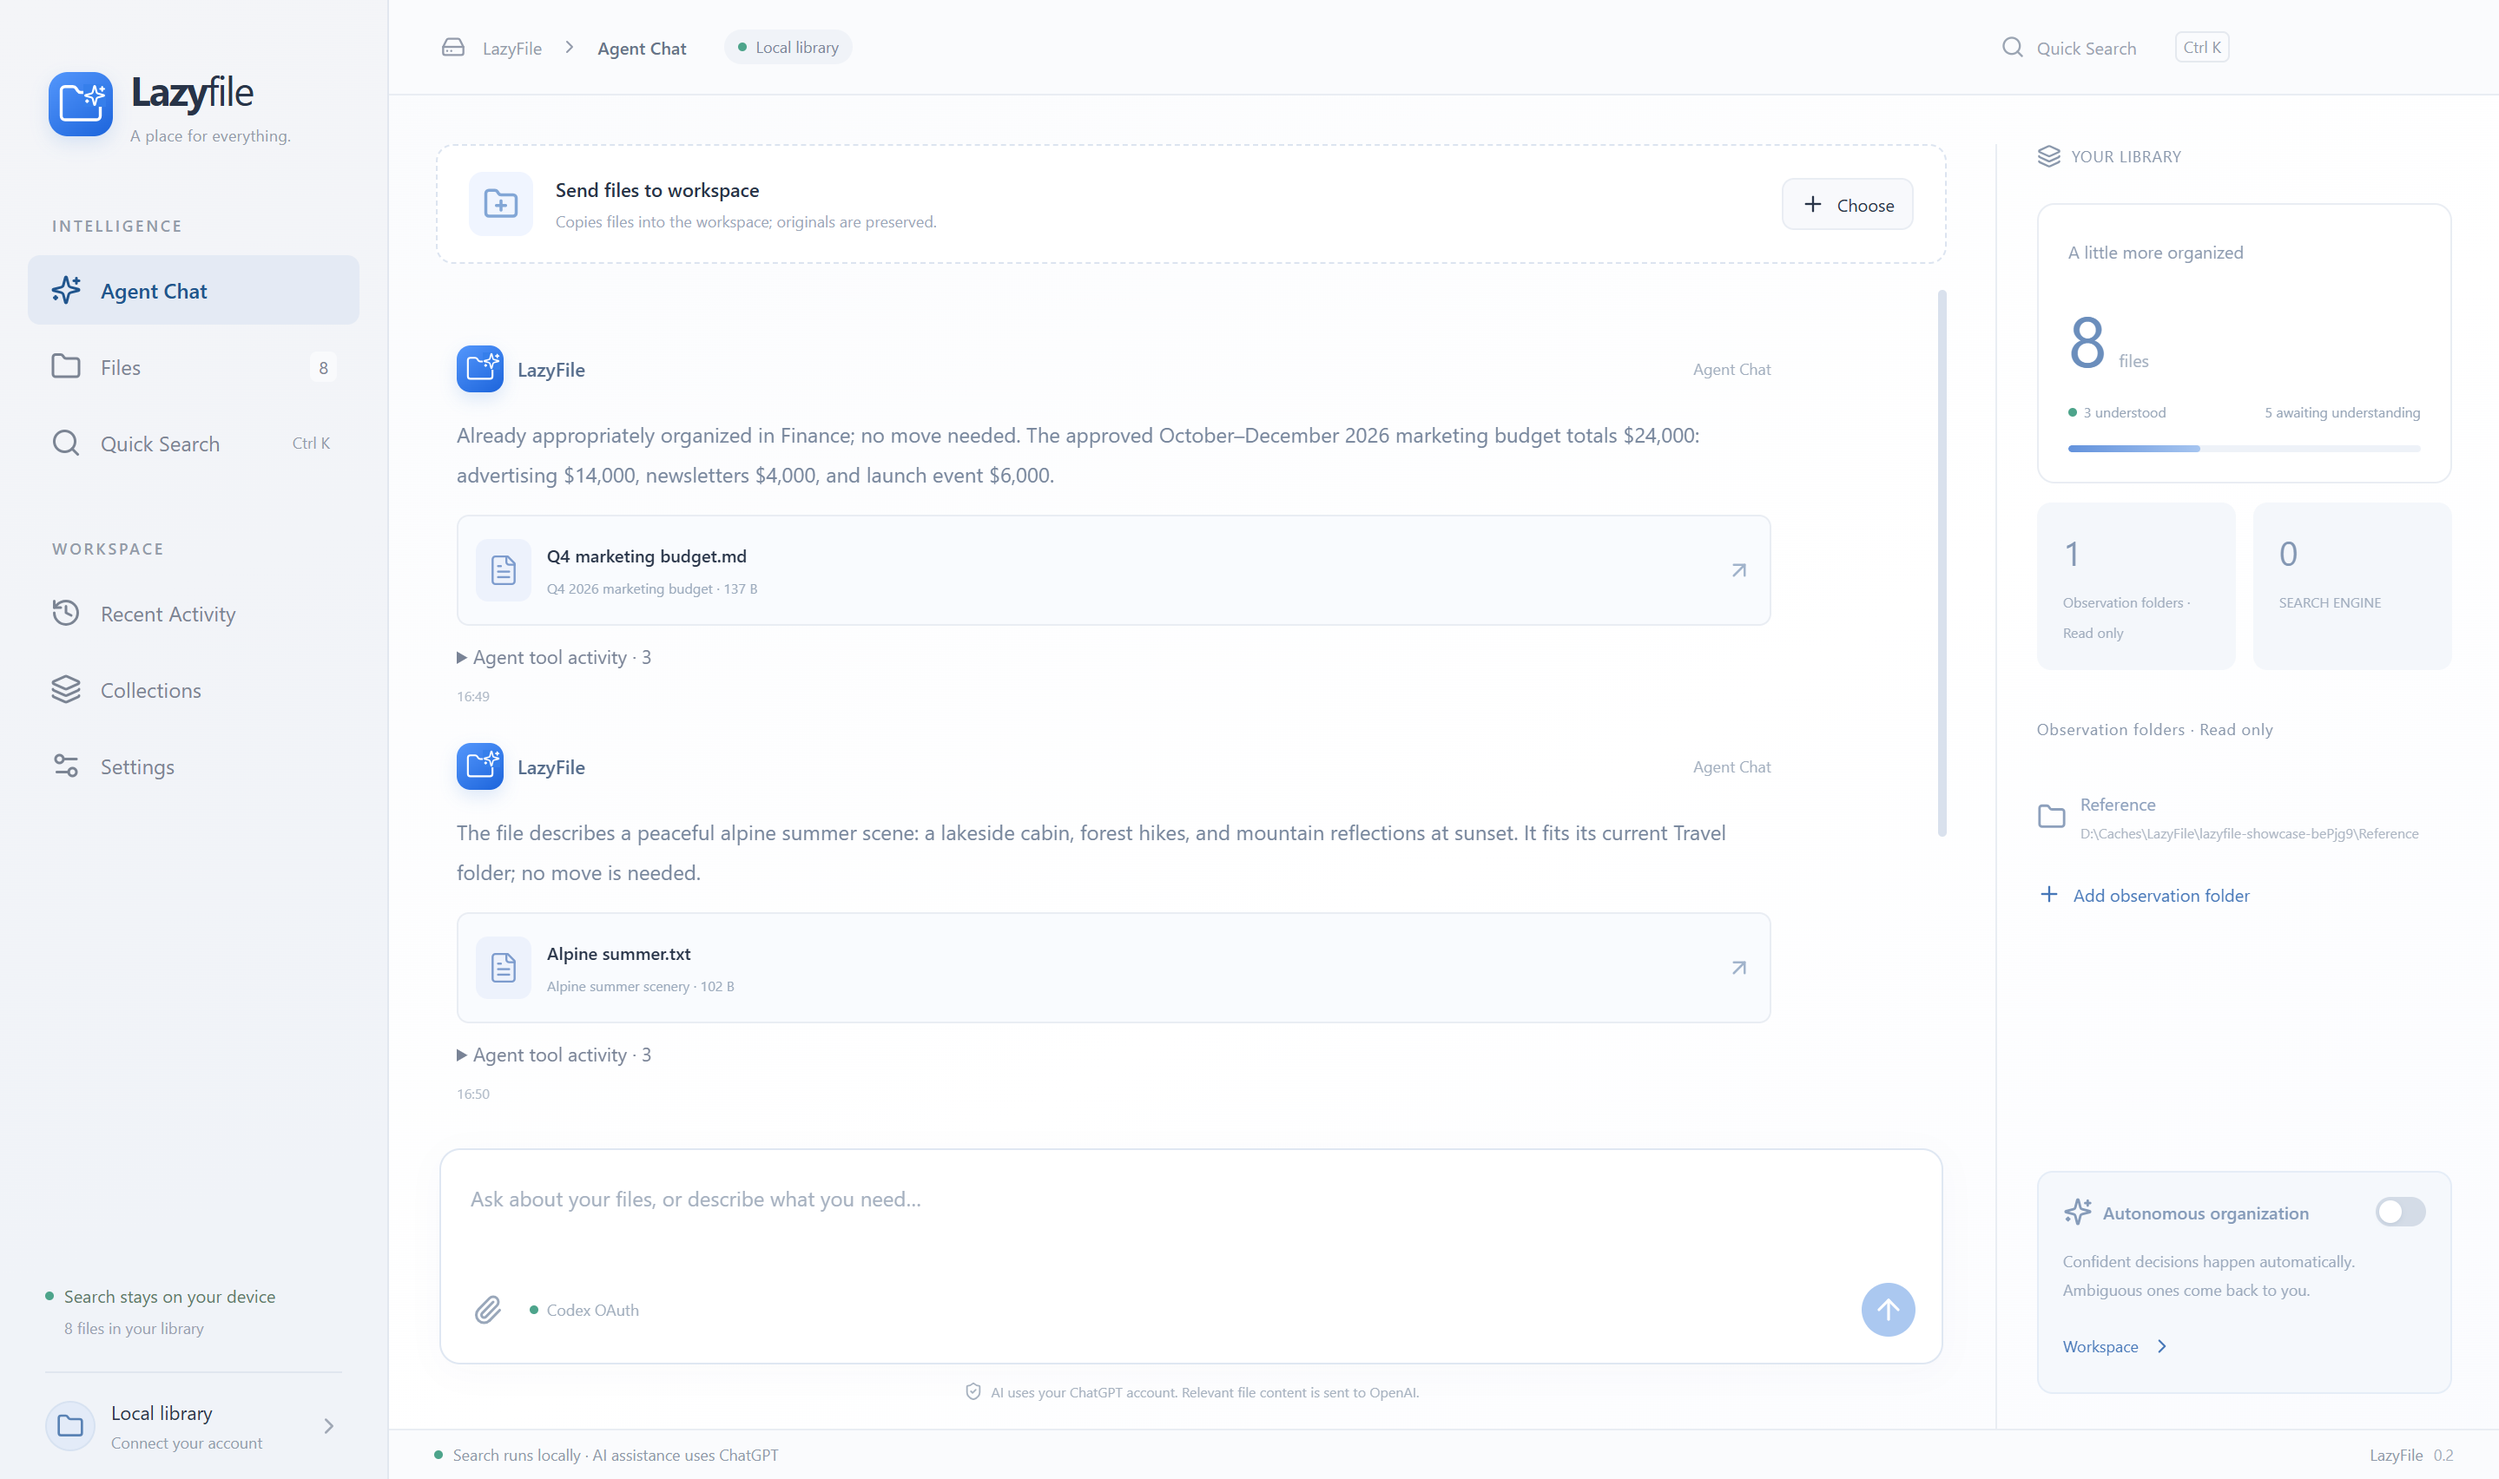
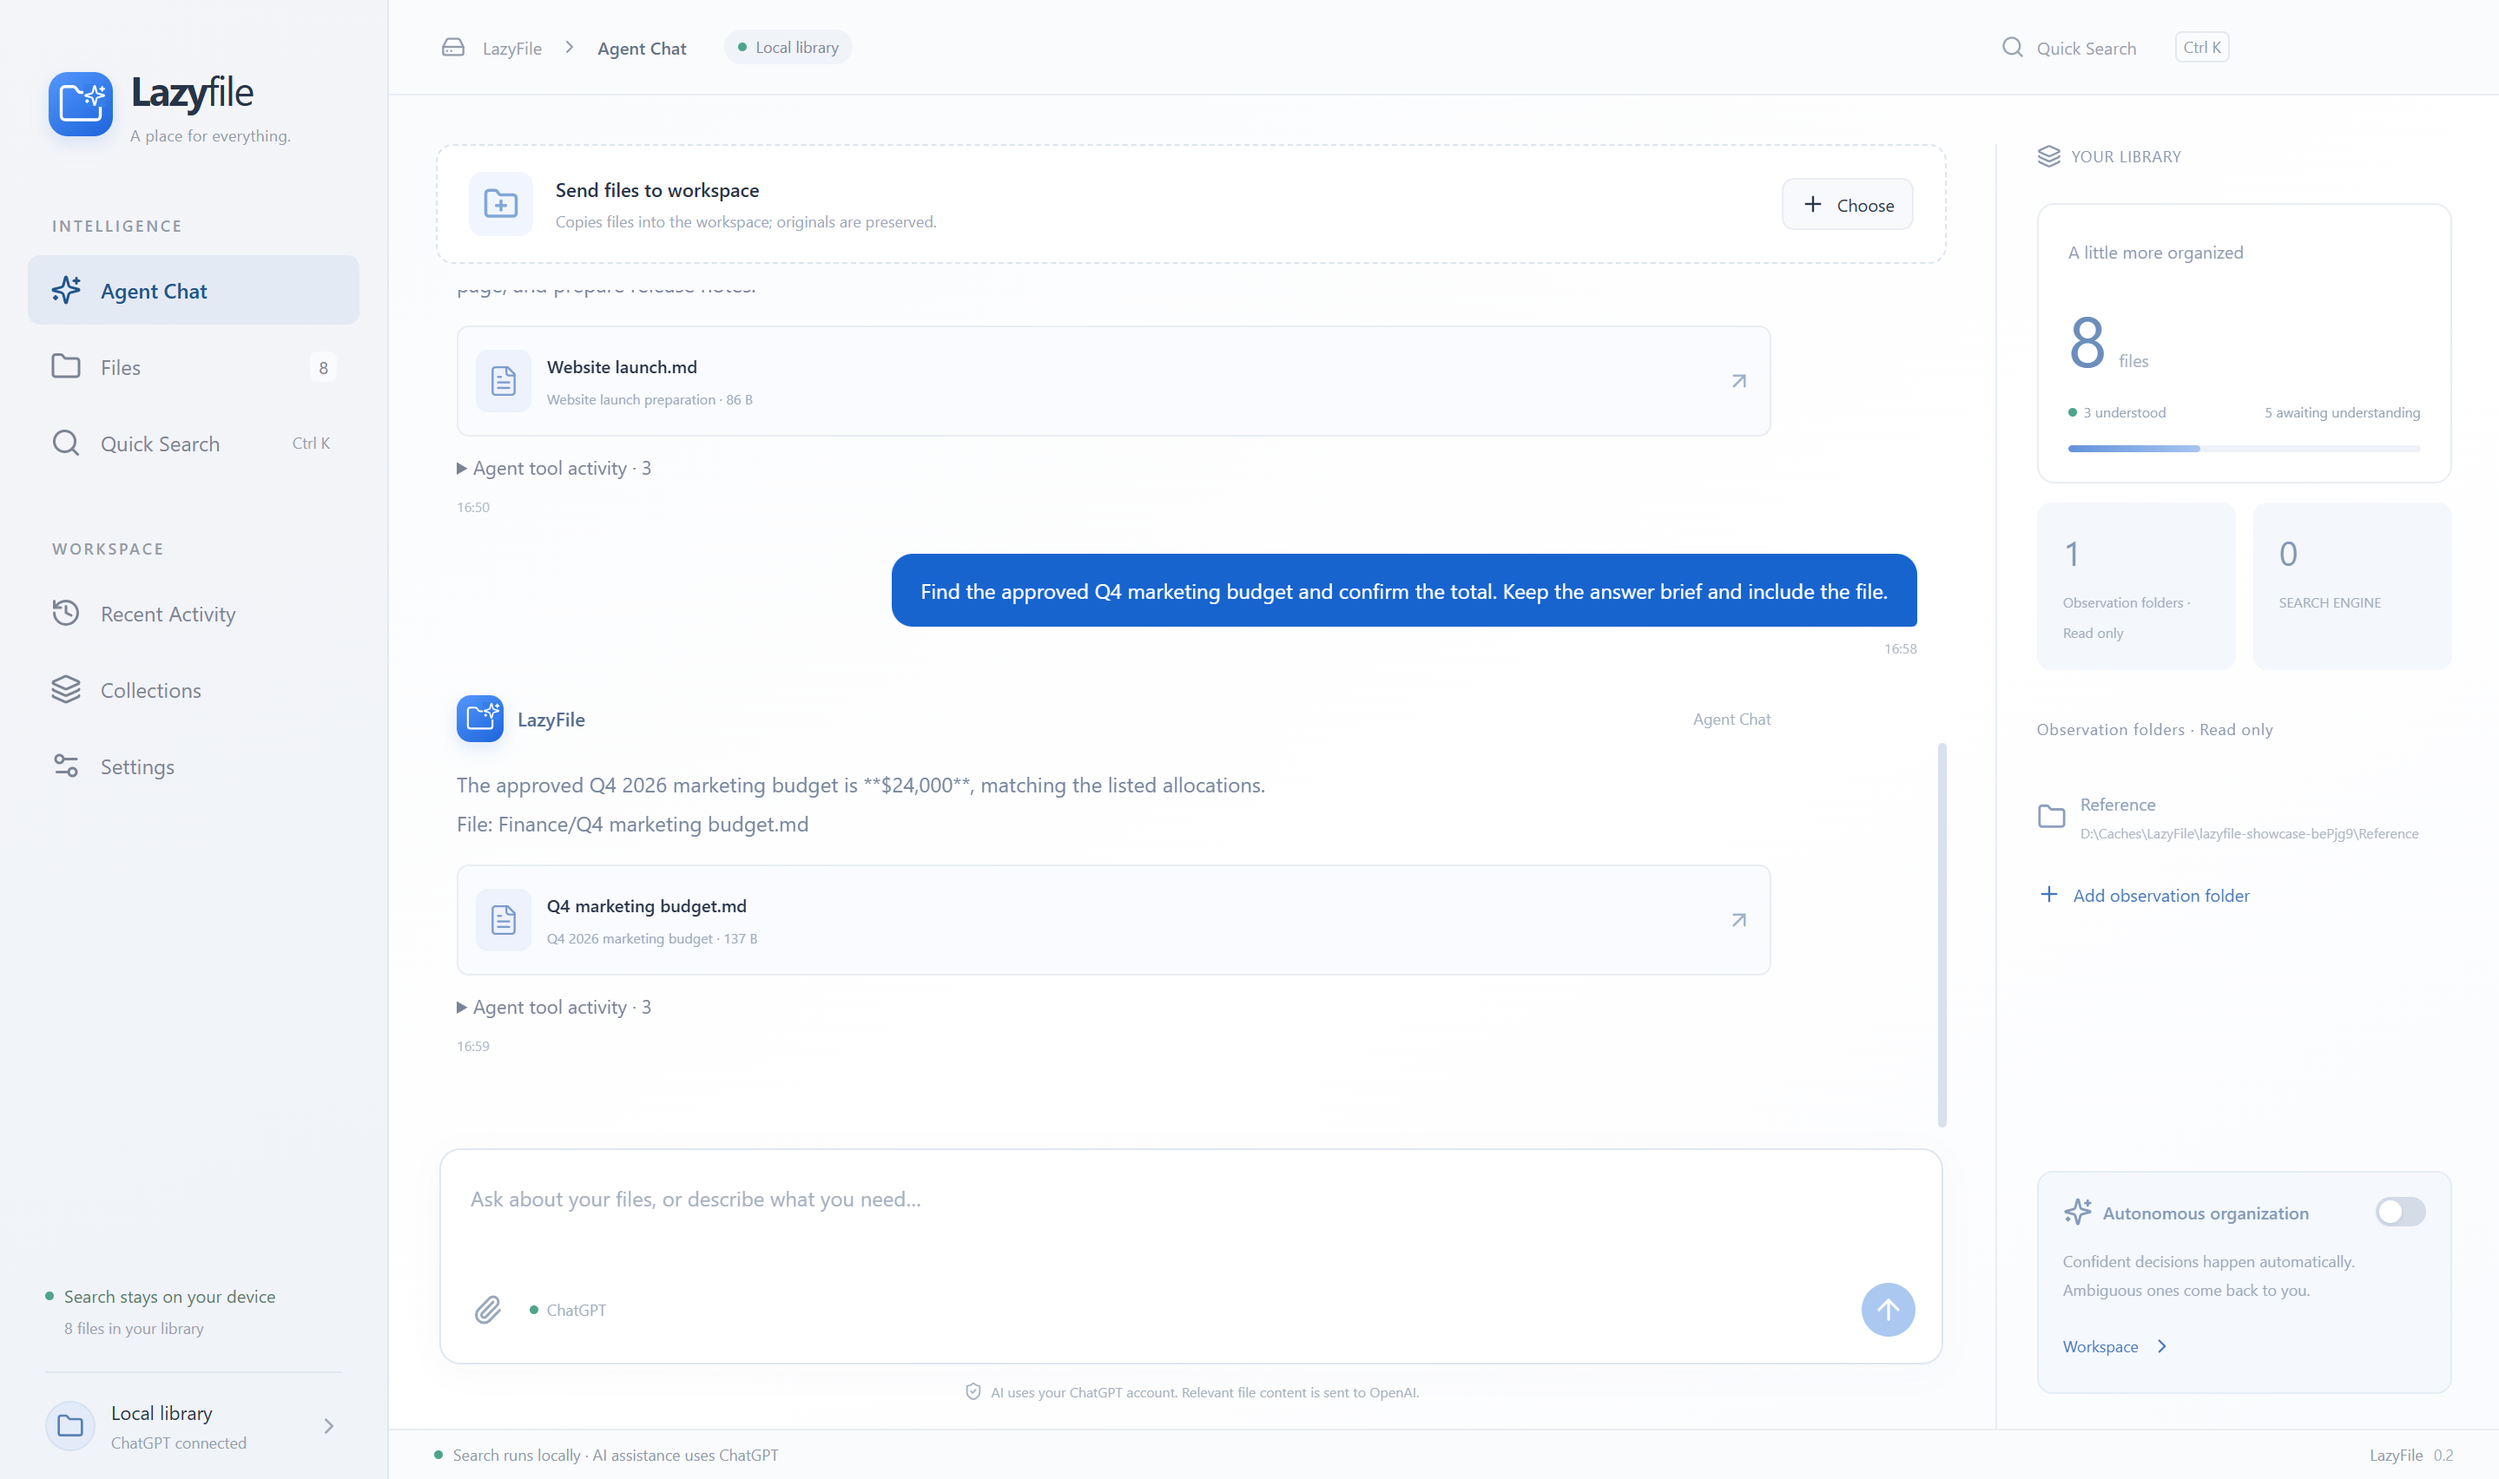
Show a real file lookup conversation in the README

diff --git a/README.md b/README.md
@@ -35,7 +35,9 @@ View workspace files and read-only observation files together, or filter by sour
 
 Describe what you remember or ask a question about a selected file. The assistant can combine search, folder browsing and reading to check the answer. Send files into the workspace from the attachment controls; the sidebar shows library status, observation folders and the optional autonomous organization setting.
 
-![Agent Chat with real analysis of demonstration files and a library overview](docs/assets/lazyfile-assistant.png)
+The example below shows a real lookup: “Find the approved Q4 marketing budget and confirm the total.” The assistant answers with the amount and a file card you can open.
+
+![Agent Chat showing a user lookup question, the assistant's answer and the matching budget file](docs/assets/lazyfile-assistant.png)
 
 ### Recent Activity — see what happened
 
